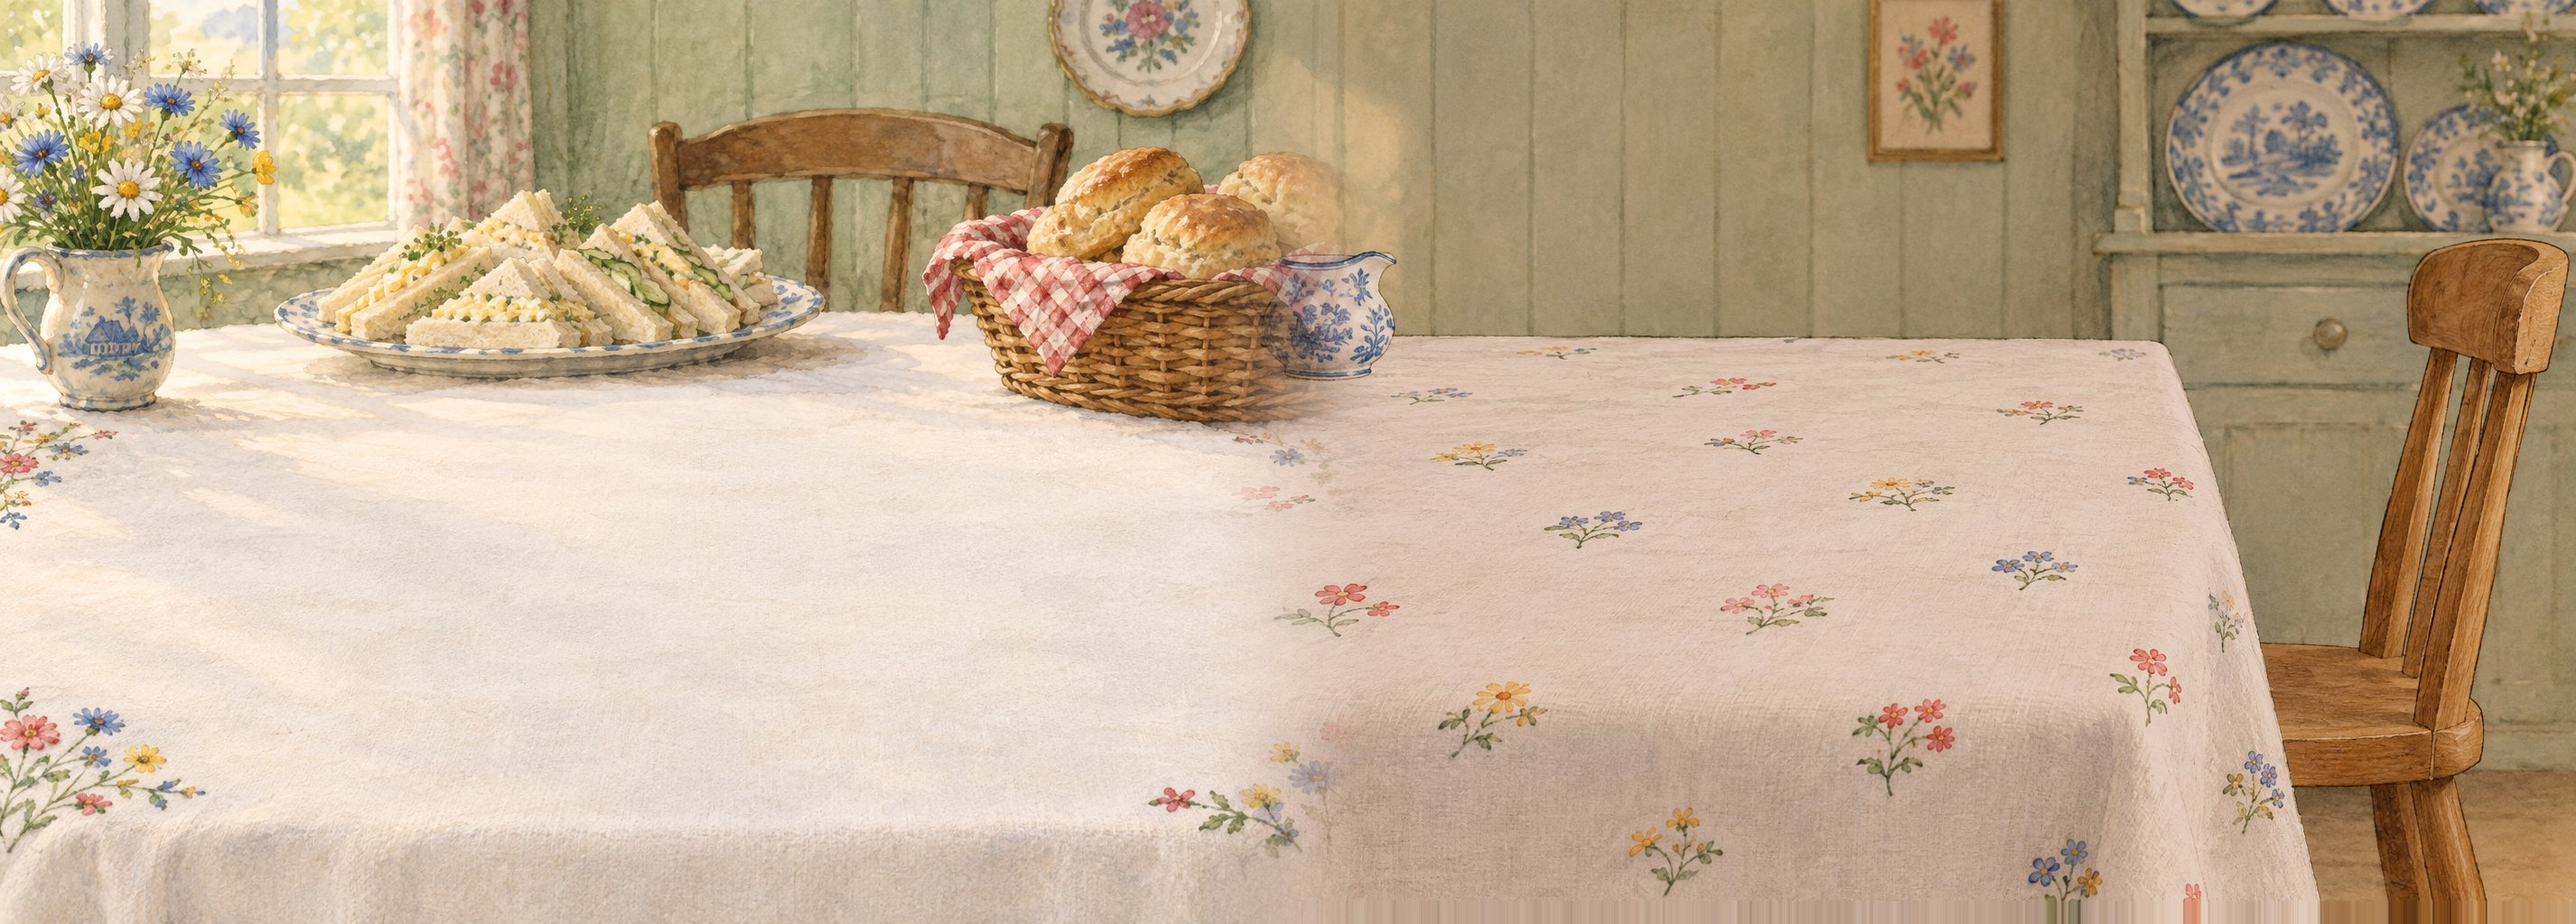
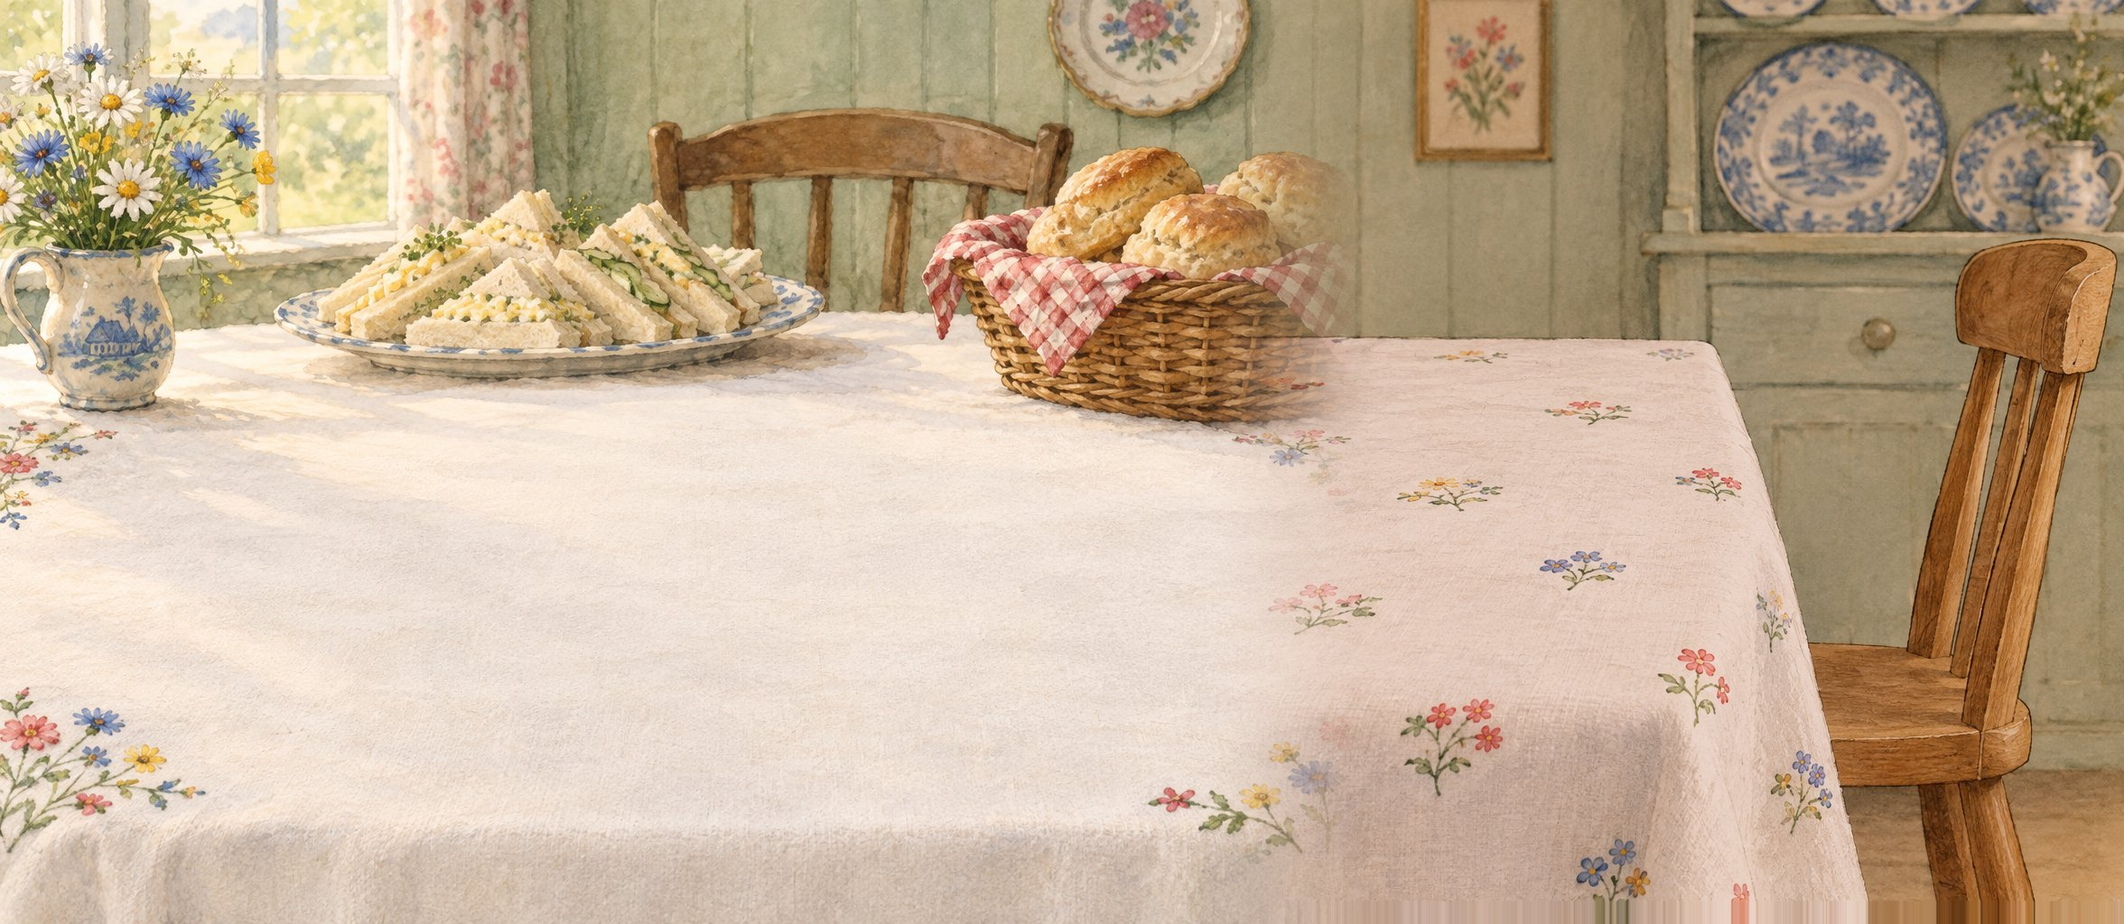
Shorter table and a gentler pan: the slide to the boy takes about two screens of scroll and eases in and out

diff --git a/index.html b/index.html
@@ -100,7 +100,7 @@ p{margin:0}
 .pin{position:relative}
 .sticky{position:sticky;z-index:4;top:0;height:100vh;height:100svh;overflow:hidden}
 #dunk{height:640vh}
-#bite{height:320vh}
+#bite{height:410vh}   /* the first 90vh carry on the sideways pan along the table */
 
 /* flavours grid */
 .flavours{padding-block:120px 140px}
@@ -587,7 +587,7 @@ const PHOTOS = {under: 'img/plain.jpg', milk: 'img/milk.jpg', dark: 'img/dark.jp
 { const im = new Image(); im.onload = () => { CUTIMG = im; }; im.src = 'img/teacup-cut.webp?v=2'; }
 { const L = {}; let n = 0;
   for (const k of ['head', 'jaw', 'mouth']){ const im = new Image(); im.onload = () => { L[k] = im; if (++n === 3) BOYIMG = L; }; im.src = `img/storyboy-${k}.webp?v=6`; } }
-{ const im = new Image(); im.onload = () => { TABLE = tableCanvas(im); }; im.src = 'img/table-pano.jpg?v=3'; }
+{ const im = new Image(); im.onload = () => { TABLE = tableCanvas(im); }; im.src = 'img/table-pano.jpg?v=4'; }
 Promise.all(Object.entries(PHOTOS).map(([id, src]) => new Promise((ok, no) => {
   const im = new Image(); im.onload = () => ok([id, im]); im.onerror = no; im.src = src;
 }))).then(list => {
@@ -1153,7 +1153,7 @@ function tableFit(G){
   const s = Math.max(W * 1.12 / TABLE_W, (refBase + H * .25) / (TABLE_SPOT * TABLE.height));
   return {s, x0: G.cx - TABLE_W * s / 2};
 }
-const TABLE_END = 2514;   // where the long table ends in the picture, in its pixels
+const TABLE_END = 1960;   // where the long table ends in the picture, in its pixels
 function drawTable(G, top){
   if (!TABLE || !CUPIMG) return;
   // the picture is one long table: the tea end is the first TABLE_W pixels, and it runs on to the right
@@ -1771,15 +1771,18 @@ function frame(y, t){
   const an = pinState(SEC.intro, y);
   /* from the tea table to the bite the page turns sideways: scrolling down slides the tea scene off to the
      left and brings the bite in from the right, while the biscuit stays in the middle */
-  const dunkEnd = SEC.dunk.top + SEC.dunk.h - H;
-  const pan = clamp((y - dunkEnd) / Math.max(1, SEC.bite.top - dunkEnd));   // 0 → 1 over one screen of scroll
-  const panning = pan > 0 && pan < 1, panX = ease(pan) * W;
+  // the pan takes about two screens of scroll: the one between the sections and the first 90vh of the bite
+  const dunkEnd = SEC.dunk.top + SEC.dunk.h - H, PAN_E = .9 * H;
+  const pan = clamp((y - dunkEnd) / Math.max(1, SEC.bite.top + PAN_E - dunkEnd));
+  const glide = .5 - .5 * Math.cos(pan * Math.PI);        // gentle at both ends, never in a rush
+  const panning = pan > 0 && pan < 1, panX = glide * W;
   const yD = pan > 0 ? Math.min(y, dunkEnd) : y;          // the tea scene holds still while it slides away
-  const yB = panning ? SEC.bite.top : y;                   // and the bite scene is already in place as it slides in
+  // the bite's own timeline starts once the pan is done
   const dk = pinState(SEC.dunk, yD);
-  const bt = pinState(SEC.bite, yB);
+  const BITE_T = {top: SEC.bite.top + PAN_E, h: SEC.bite.h - PAN_E};
+  const bt = pinState(BITE_T, Math.max(y, BITE_T.top));
   if (STICKY.dunk) STICKY.dunk.style.transform = pan > 0 ? `translate3d(${(-panX).toFixed(1)}px, ${(y - yD).toFixed(1)}px, 0)` : '';
-  if (STICKY.bite) STICKY.bite.style.transform = panning ? `translate3d(${(W - panX).toFixed(1)}px, ${(y - SEC.bite.top).toFixed(1)}px, 0)` : '';
+  if (STICKY.bite) STICKY.bite.style.transform = panning ? `translate3d(${(W - panX).toFixed(1)}px, ${Math.min(0, y - SEC.bite.top).toFixed(1)}px, 0)` : '';
 
   /* the plain biscuit turns milk chocolate as it lands in its slot */
   const mix = 0;
@@ -1849,7 +1852,7 @@ function frame(y, t){
   // the whole tea scene, ribbons and all, rides off to the left, and the far end of the table comes in
   // the table slides far enough that its end comes to rest just right of the biscuit, where the boy sits
   const bgEnd = TABLE && CUPIMG ? (({s, x0}) => Math.max(W, x0 + TABLE_END * s - W * .64))(tableFit(geomDunk(0, 0))) : W;
-  ctx.save(); ctx.translate(-ease(pan) * bgEnd, offY);
+  ctx.save(); ctx.translate(-glide * bgEnd, offY);
   ctx.save();
   if (bandOn){
     ctx.beginPath(); domeBelow(rTop + RT); ctx.clip();
